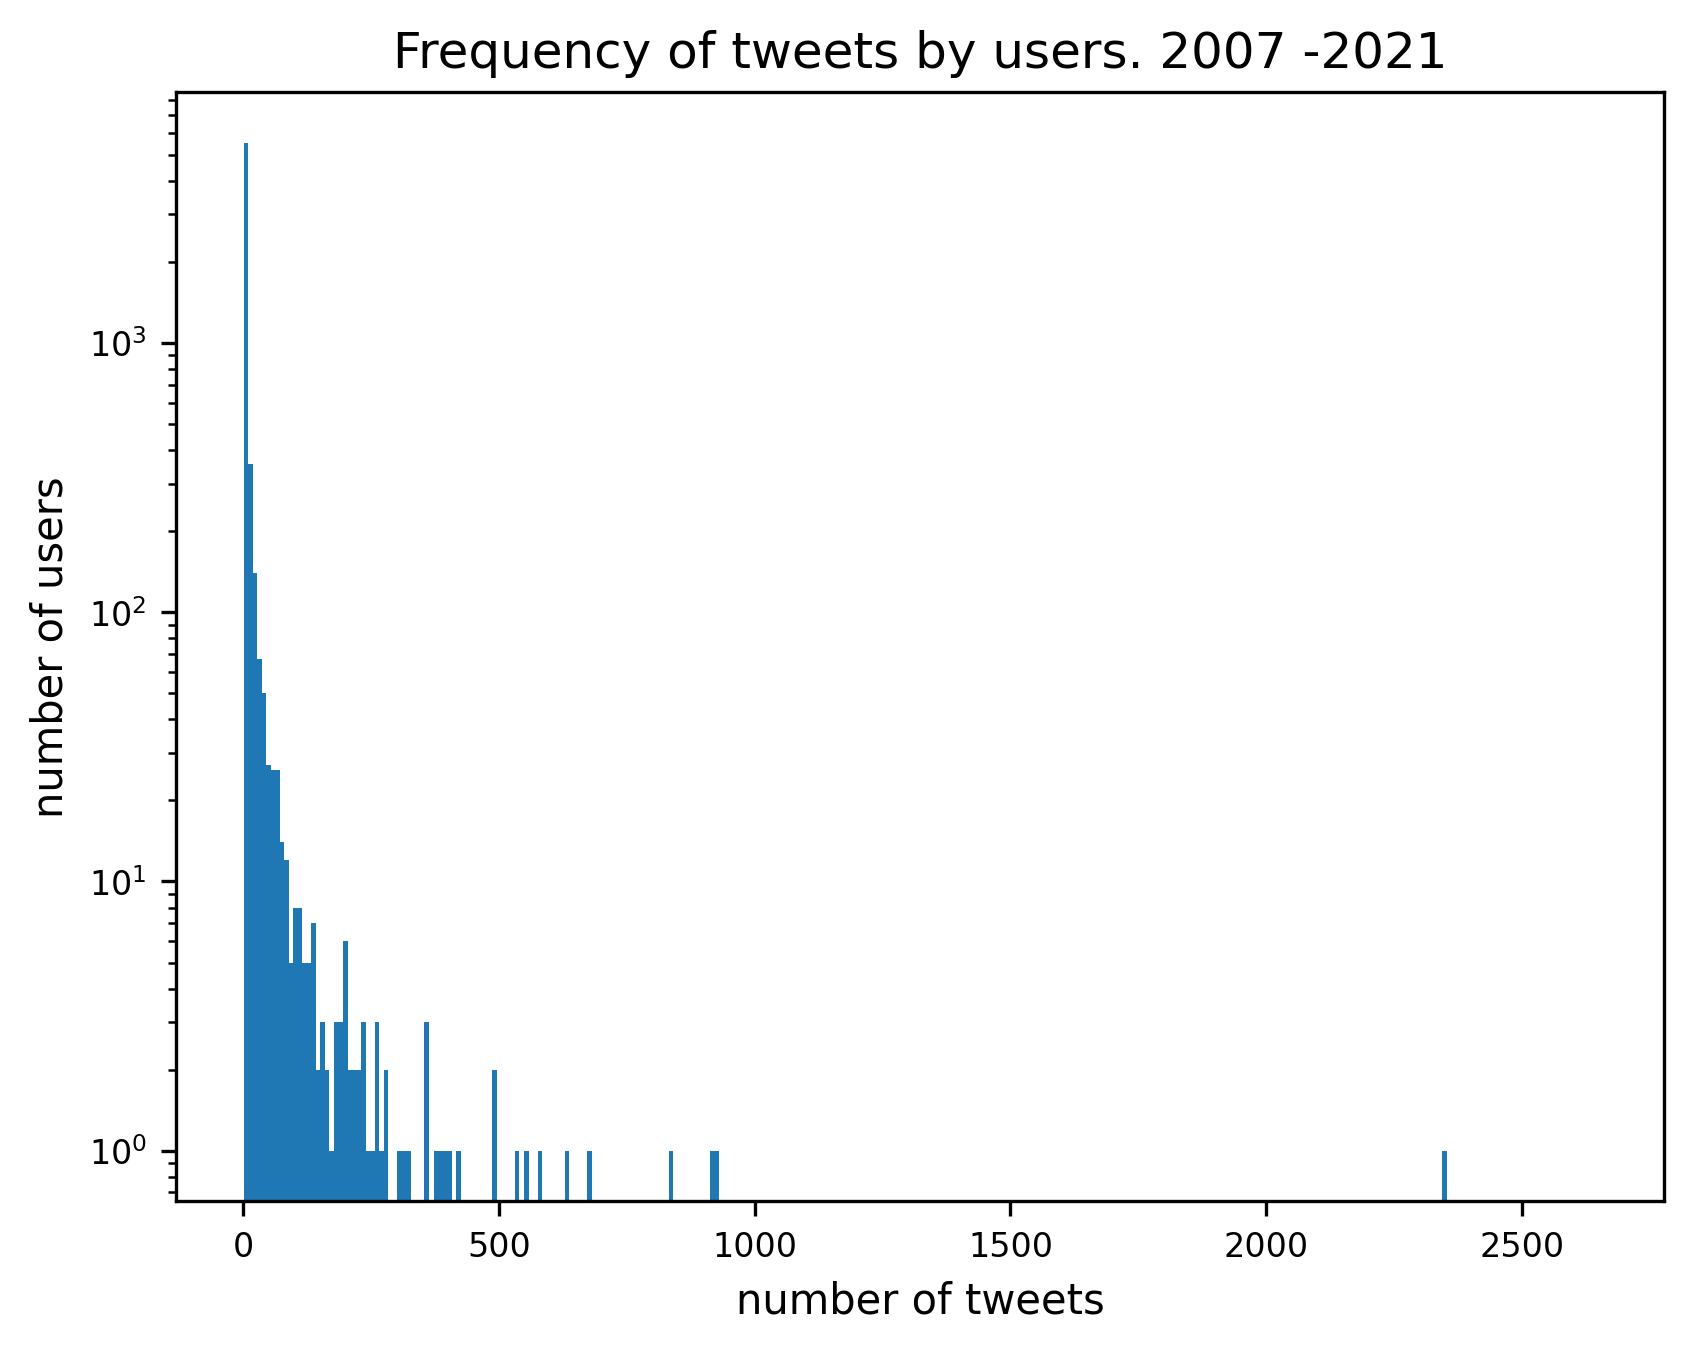
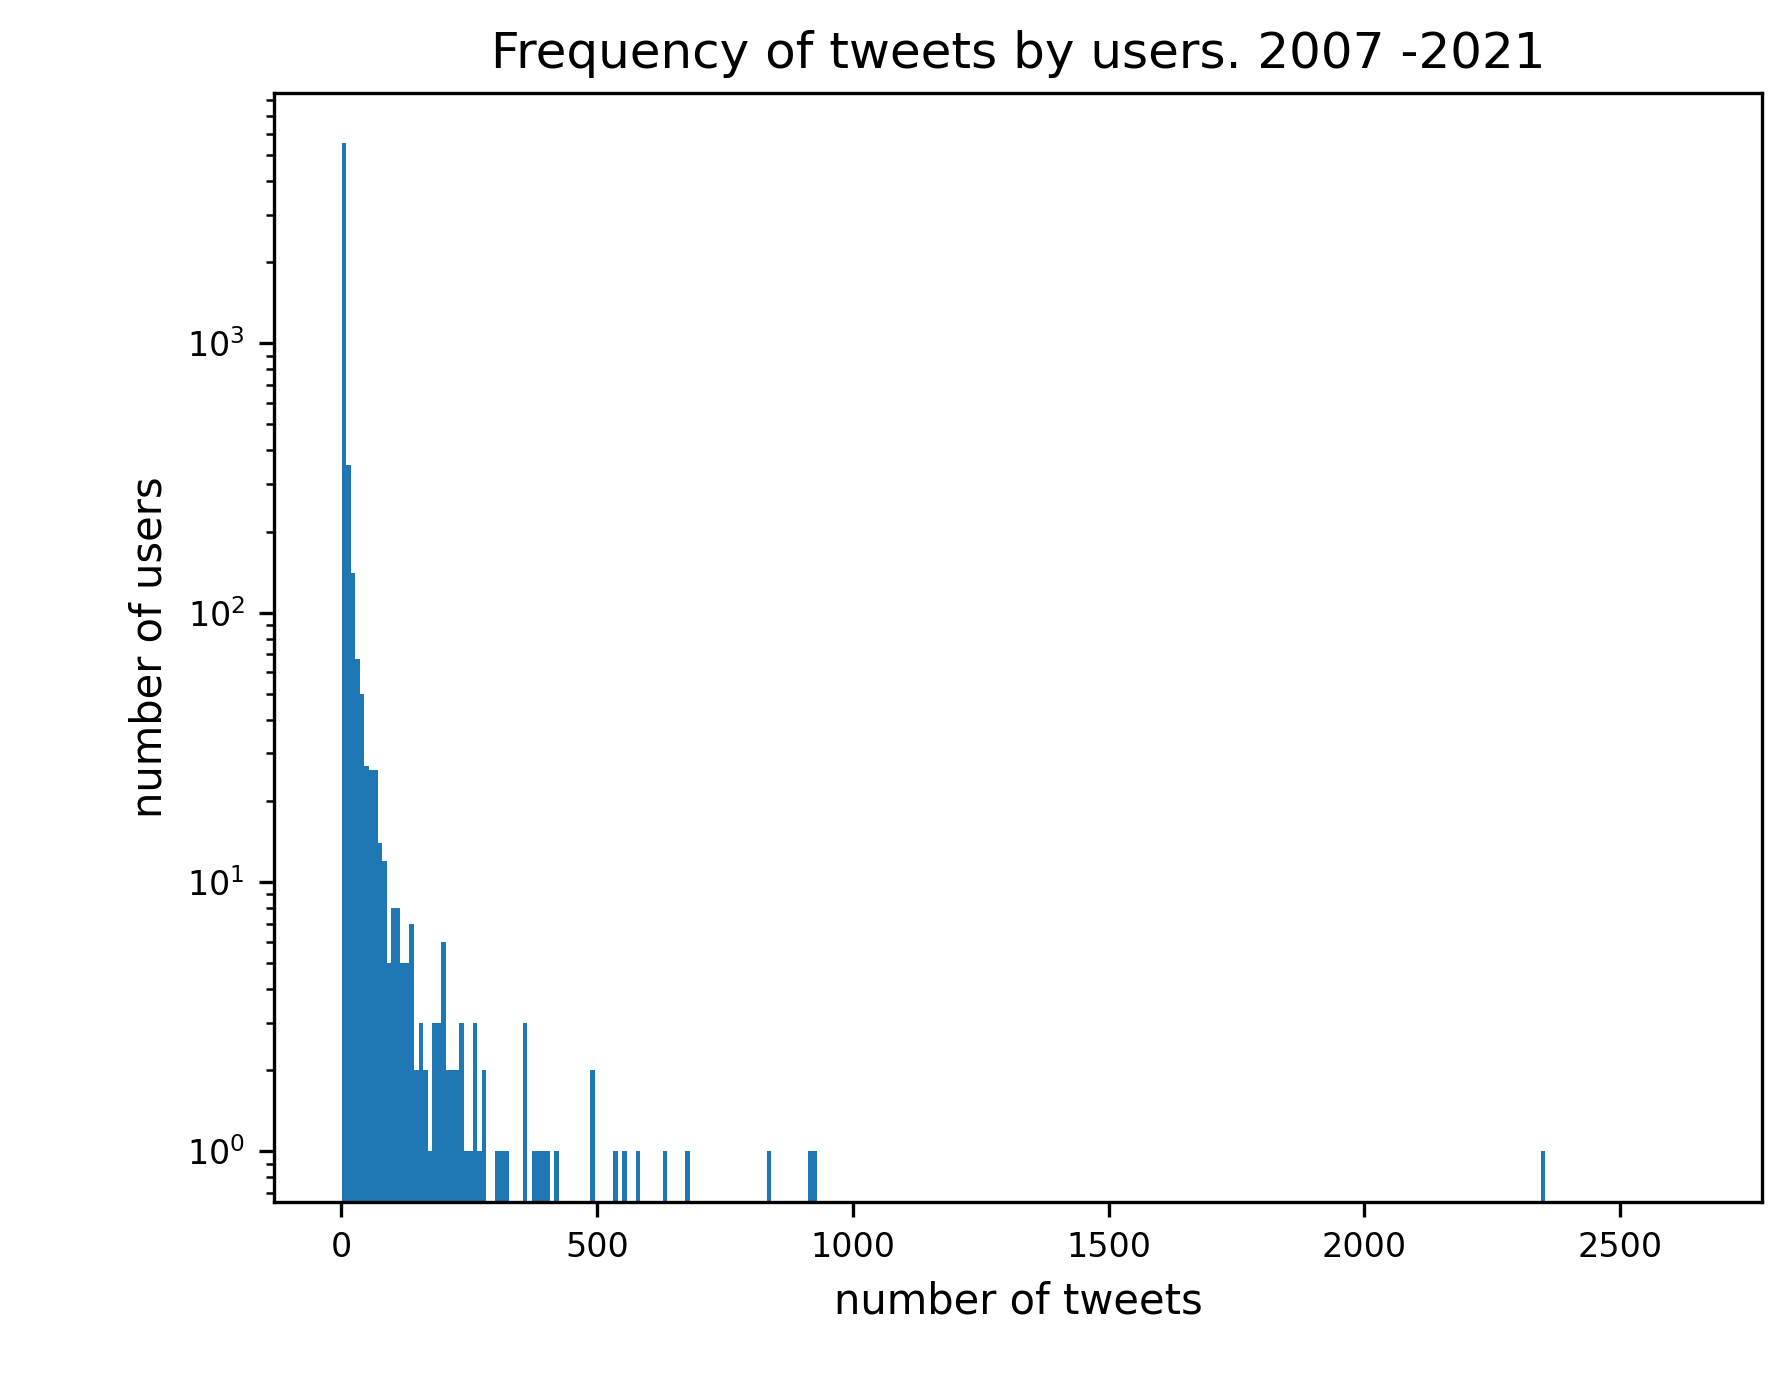
attempt at making annotationbbox

Changed region(s): [[0.0, 0.0, 0.9829, 0.9941], [0.0, 0.497, 0.0307, 0.5592]]

diff --git a/data/anon_identifier.py b/data/anon_identifier.py
@@ -66,10 +66,10 @@ def anonymizer():
 
     #making a marker for the highest tweets user
     offsetbox = TextArea('1')
-    ab = AnnotationBbox(offsetboxm, (max_key,2),
+    ab = AnnotationBbox(offsetbox, (max_key,2),
                         xybox = (-20, 40),
                         box_alignment = (500, 1000),
-                        arrowprops = dict(arowstyle='->'))
+                        arrowprops = dict(arrowstyle='->'))
                 
 
     ax.hist(tweet_occurances.values() , bins = np.linspace(1, max_number_of_tweets-2, 300))
@@ -79,7 +79,7 @@ def anonymizer():
     plt.xlabel('number of tweets')
     plt.title('Frequency of tweets by users. 2007 -2021')
 
-    ax.add_artis(ab)
+    ax.add_artist(ab)
     plt.savefig('third_rendition_data/third_rendition_geolocated_user_tweetfreq.png',dpi = 300, format='png',  bbox_inches = 'tight', pad_inches = 0.1) #0.1 is default when bbox is tight
 
     outfile_ID = open('third_rendition_data/third_rendition_geolocated_translator.json', 'w')
@@ -103,4 +103,5 @@ def identifyer():
     df.to_csv('third_rendition_data/third_rendition_geolocated_posneutral_predict.csv')
         
 if __name__ == '__main__':
-    identifyer()
+    #identifyer()
+    anonymizer()
